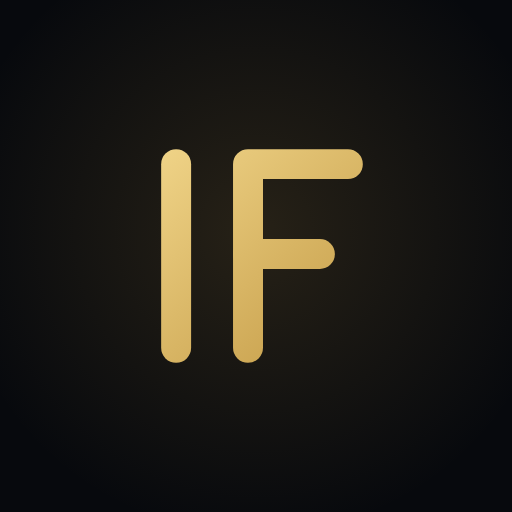
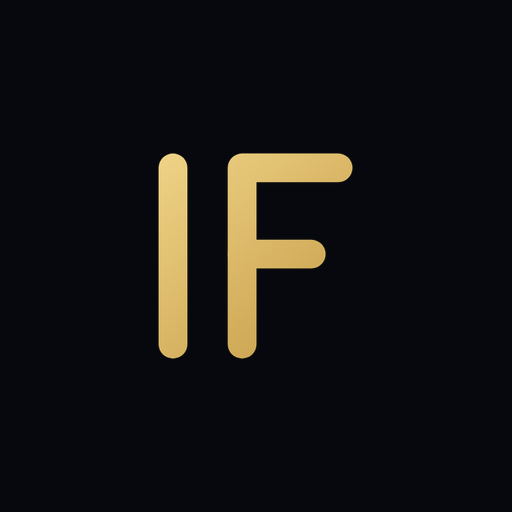
v5.12.4: icono maskable plano (sin cuadro en splash Android)
Claude-Session: https://claude.ai/code/session_019ADEvJKmEoA5rpyyFfjPYD

Changed region(s): [[0.2812, 0.2812, 0.7188, 0.7188], [0.4688, 0.3438, 0.6875, 0.7188]]

diff --git a/ivan-finanzas/sw.js b/ivan-finanzas/sw.js
@@ -1,6 +1,6 @@
 /* Iván Finanzas — service worker: la app abre sin internet y se actualiza sola.
    Tus datos NO viven aquí (siguen en el almacenamiento del navegador); esto solo guarda los archivos de la app. */
-const CACHE = 'if-app-v5.12.3';
+const CACHE = 'if-app-v5.12.4';
 const ARCHIVOS = ['./', './index.html', './manifest.json', './icon-192.png', './icon-512.png',
   './icon-maskable-512.png', './favicon-64.png', './apple-touch-icon.png', './shortcut-gasto-192.png'];
 

diff --git a/ivan-finanzas/index.html b/ivan-finanzas/index.html
@@ -2979,7 +2979,7 @@
         <div class="config-row">
           <div>
             <div class="config-label">Iván Finanzas</div>
-            <div class="config-sublabel">Control financiero personal · v5.12.3</div>
+            <div class="config-sublabel">Control financiero personal · v5.12.4</div>
           </div>
         </div>
       </div>
